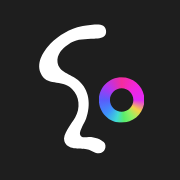
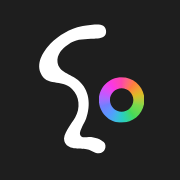
feat: roue iris v2
- CSS : variables nommées du kit (tokens/theme.css : --iris-cyan … --iris-vert, --iris-conic) à la place des arrêts
  numérotés ; tokens/iris.css (resté en roue v1 dans le kit) n'est plus importé ; --bg-dark / --bg-light lus dans
  tokens/iris.json
- fond : couleurs choisies sur les positions de la roue v2
- favicon et icônes d'app : régénérés depuis les monogrammes v2 du kit
- WebGL, chargeur, nom : déjà branchés sur iris.glsl / IRIS_STOPS, donc en v2

Changed region(s): [[0.5278, 0.4167, 0.8056, 0.6944]]

diff --git a/src/styles.css b/src/styles.css
@@ -20,7 +20,7 @@ img { max-width: 100%; display: block; }
 img, svg, canvas { -webkit-user-drag: none; user-select: none; }
 .brand, .hero, .studio__word { -webkit-user-select: none; user-select: none; }
 a { color: inherit; }
-:focus-visible { outline: 2px solid var(--iris-2); outline-offset: 4px; }   /* bleu de la roue : ≥ 3:1 sur les deux fonds */
+:focus-visible { outline: 2px solid var(--iris-bleu); outline-offset: 4px; }   /* bleu de la roue : ≥ 3:1 sur les deux fonds */
 
 .wrap { padding-left: var(--edge-l); padding-right: var(--edge-r); }
 .lbl { font: 400 var(--fs-text)/1.55 var(--font-text); color: var(--ink-86); }   /* étiquettes, sous-titres, genres : même style que le texte courant */
@@ -46,8 +46,8 @@ a { color: inherit; }
 .skip { position: fixed; left: 12px; top: 12px; z-index: 100; padding: 10px 14px; background: var(--c-white); color: var(--c-black); border-radius: var(--radius-s); transform: translateY(-200%); }
 .skip:focus-visible { transform: none; }
 
-/* sélection de texte : bleu-violet de la roue (--iris-3), texte blanc, dans les deux modes */
-::selection { background: var(--iris-3); color: white; }
+/* sélection de texte : bleu-violet de la roue (--iris-indigo), texte blanc, dans les deux modes */
+::selection { background: var(--iris-indigo); color: white; }
 .sr { position: absolute; width: 1px; height: 1px; overflow: hidden; clip-path: inset(50%); white-space: nowrap; }
 
 /* barre du haut : monogramme + logotype, fixe */
@@ -97,7 +97,7 @@ a { color: inherit; }
 .btn--light { position: relative; background: none; color: var(--ink); border: 1px solid var(--ink); border-radius: var(--radius-pill); padding: 10px 18px; font: 400 var(--fs-small) var(--font-text); transition: background var(--dur-fast), color var(--dur-fast), box-shadow var(--dur-fast); }
 /* même famille que les pastilles (langue, fermer) : contour fin à l'encre, au survol fond à l'encre et contour épaissi */
 .btn--light:hover, .btn--light:focus-visible { background: var(--ink); color: var(--bg); box-shadow: 0 0 0 1px var(--ink); }
-@keyframes chroma { from { text-shadow: -0.04em 0 0.1em color-mix(in srgb, var(--iris-6) 45%, transparent), 0.04em 0 0.1em color-mix(in srgb, var(--iris-0) 45%, transparent); } to { text-shadow: 0 0 0 transparent, 0 0 0 transparent; } }
+@keyframes chroma { from { text-shadow: -0.04em 0 0.1em color-mix(in srgb, var(--iris-magenta) 45%, transparent), 0.04em 0 0.1em color-mix(in srgb, var(--iris-vert) 45%, transparent); } to { text-shadow: 0 0 0 transparent, 0 0 0 transparent; } }
 
 /* bords de l'écran : le texte s'efface en fondu net ; la déformation « verre liquide » est faite en WebGL sur les images */
 .edge { position: fixed; left: 0; right: 0; z-index: 15; pointer-events: none; transition: opacity var(--dur-base) var(--ease-flow); }
@@ -151,7 +151,7 @@ main { position: relative; }   /* pas de contexte d'empilement : le mot de l'acc
 .js [data-words] .w.on { opacity: 1; }
 /* mot en cours d'apparition : encre derrière le front, front irisé (roue du kit), encore éteint devant */
 .js [data-words] .w.lead { opacity: 1; color: transparent; -webkit-background-clip: text; background-clip: text;
-  background-image: linear-gradient(90deg, var(--ink) calc(var(--f, 0) * 116% - 16%), var(--iris-5) calc(var(--f, 0) * 116% - 10%), var(--iris-2) calc(var(--f, 0) * 116% - 5%), var(--iris-0) calc(var(--f, 0) * 116% - 1%), color-mix(in srgb, var(--ink) 16%, transparent) calc(var(--f, 0) * 116% + 2%)); }
+  background-image: linear-gradient(90deg, var(--ink) calc(var(--f, 0) * 116% - 16%), var(--iris-rose) calc(var(--f, 0) * 116% - 10%), var(--iris-bleu) calc(var(--f, 0) * 116% - 5%), var(--iris-vert) calc(var(--f, 0) * 116% - 1%), color-mix(in srgb, var(--ink) 16%, transparent) calc(var(--f, 0) * 116% + 2%)); }
 @media (prefers-reduced-motion: reduce) {
   .js [data-reveal], .js [data-reveal="line"] > span { transform: none !important; transition: opacity var(--dur-base); animation: none !important; }
   .js [data-reveal="clip"] { clip-path: none; }
@@ -283,8 +283,8 @@ main { position: relative; }   /* pas de contexte d'empilement : le mot de l'acc
 .work--research { padding-top: var(--sp-6); }
 .lens-on:not(.fiche-open), .lens-on:not(.fiche-open) * { cursor: none !important; }   /* seulement sur les vignettes, jamais dans une fiche */
 .card__media--text, .has-gl .card__media--text { display: grid; place-items: center;
-  background: radial-gradient(120% 90% at 15% 10%, color-mix(in srgb, var(--iris-5) 34%, transparent), transparent 60%), radial-gradient(90% 80% at 85% 20%, color-mix(in srgb, var(--iris-2) 34%, transparent), transparent 60%),
-    radial-gradient(110% 90% at 70% 100%, color-mix(in srgb, var(--iris-0) 30%, transparent), transparent 60%), radial-gradient(90% 80% at 10% 95%, color-mix(in srgb, var(--iris-4) 30%, transparent), transparent 60%), var(--card-bg); }
+  background: radial-gradient(120% 90% at 15% 10%, color-mix(in srgb, var(--iris-rose) 34%, transparent), transparent 60%), radial-gradient(90% 80% at 85% 20%, color-mix(in srgb, var(--iris-bleu) 34%, transparent), transparent 60%),
+    radial-gradient(110% 90% at 70% 100%, color-mix(in srgb, var(--iris-vert) 30%, transparent), transparent 60%), radial-gradient(90% 80% at 10% 95%, color-mix(in srgb, var(--iris-violet) 30%, transparent), transparent 60%), var(--card-bg); }
 .card__media--text .disp { font-size: clamp(2rem, 4vw, 3.6rem); color: white; }   /* sur tuile sombre dans les deux modes */
 
 /* 5. contact, pied de page */

diff --git a/vite.config.js b/vite.config.js
@@ -50,8 +50,8 @@ function prerender() {
   }
 }
 
-/** Arrêts de la roue du logo-kit (design/logo-kit/src/iris.js) en variables CSS : --iris-0 … --iris-10 (dans l'ordre du
- *  dégradé, 0 = vert en bas, 5 = rose en haut), --iris-linear (le même dégradé à plat). Aucune couleur recopiée à la main. */
+/** Valeurs du logo-kit en variables CSS (aucune couleur recopiée à la main) : --bg-dark / --bg-light (tokens/iris.json)
+ *  et --iris-linear, la roue v2 à plat (src/iris.js), pour les filets irisés. */
 function irisCss() {
   const id = 'virtual:iris.css', rid = '\0virtual:iris.css'
   return {
@@ -60,8 +60,8 @@ function irisCss() {
     async load(s) {
       if (s !== rid) return null
       const { IRIS_STOPS } = await import(pathToFileURL(resolve('design/logo-kit/src/iris.js')).href)
-      const stops = IRIS_STOPS.slice(0, -1)
-      return `:root{${stops.map(([, c], i) => `--iris-${i}:${c};`).join('')}--iris-linear:linear-gradient(90deg,${IRIS_STOPS.map(([p, c]) => `${c} ${(p * 100).toFixed(1)}%`).join(',')});}`
+      const { colors } = JSON.parse(readFileSync(resolve('design/logo-kit/tokens/iris.json'), 'utf8'))
+      return `:root{--bg-dark:${colors.bgDark};--bg-light:${colors.bgLight};--iris-linear:linear-gradient(90deg,${IRIS_STOPS.map(([p, c]) => `${c} ${(p * 100).toFixed(1)}%`).join(',')});}`
     },
   }
 }

diff --git a/src/backdrop.js b/src/backdrop.js
@@ -9,9 +9,9 @@
 import KIT_IRIS from '../design/logo-kit/src/iris.glsl?raw'
 
 const N = 12   // nombre de formes réparties dans la page
-// couleurs des formes (positions sur la roue du kit), alternées pour que deux voisines ne se ressemblent pas ; les roses
-// et violets (0,37 à 0,75 sur la roue) sont limités à deux formes sur douze
-const HUES = [0.04, 0.84, 0.13, 0.95, 0.5, 0.0, 0.25, 0.88, 0.08, 0.62, 0.17, 0.91]   // + 0,5 : irisAt compte depuis le haut
+// couleurs des formes : positions sur la roue v2 du kit (0 cyan, 0,1 bleu, 0,2 indigo, 0,3 violet, 0,4 magenta, 0,5 rose,
+// 0,6 corail, 0,7 jaune, 0,8 vert-jaune, 0,9 vert), alternées ; roses, magentas et violets limités à deux formes sur douze
+const HUES = [0.0, 0.7, 0.1, 0.9, 0.6, 0.05, 0.2, 0.75, 0.85, 0.5, 0.15, 0.95]   // + 0,5 : irisAt compte depuis le haut
 
 const VERT = `attribute vec2 a; void main() { gl_Position = vec4(a, 0.0, 1.0); }`
 const FRAG = `precision highp float;

diff --git a/src/theme.css b/src/theme.css
@@ -1,7 +1,9 @@
 /* Thème du site, dérivé du logo-kit Figma (design/logo-kit, source de vérité) : aucune teinte propre au site.
    --bg / --ink : fonds et encres du kit ; neutres secondaires : mélanges de --ink et --bg uniquement.
-   Les arrêts de la roue (--iris-*) sont générés depuis design/logo-kit/src/iris.js (vite.config.js, virtual:iris.css). */
-@import '../design/logo-kit/tokens/iris.css';
+   Roue v2 : --iris-cyan … --iris-vert, --iris-conic et --title-fringe viennent de design/logo-kit/tokens/theme.css ;
+   --bg-dark, --bg-light et --iris-linear sont générés depuis le kit (vite.config.js, virtual:iris.css). Le
+   tokens/iris.css du kit v2 contient encore la roue v1 : il n'est pas importé. */
+@import '../design/logo-kit/tokens/theme.css';
 
 /* thème de l'appareil (prefers-color-scheme) ; s'il n'en indique aucun : clair. Le bouton de la barre du haut peut forcer
    l'autre mode (data-theme sur <html>, mémorisé). */

diff --git a/en/index.html b/en/index.html
@@ -4,8 +4,8 @@
   <meta charset="utf-8" />
   <meta name="viewport" content="width=device-width, initial-scale=1, viewport-fit=cover" />
   <!--HEAD:en-->
-  <link rel="icon" href="../favicon.svg?v=6" type="image/svg+xml" />
-  <link rel="icon" href="../favicon.ico?v=6" sizes="any" />
+  <link rel="icon" href="../favicon.svg?v=7" type="image/svg+xml" />
+  <link rel="icon" href="../favicon.ico?v=7" sizes="any" />
   <link rel="apple-touch-icon" href="../apple-touch-icon.png" />
   <link rel="manifest" href="../manifest.webmanifest" />
   <link rel="preload" href="../fonts/archivo-variable.woff2" as="font" type="font/woff2" crossorigin />

diff --git a/index.html b/index.html
@@ -4,8 +4,8 @@
   <meta charset="utf-8" />
   <meta name="viewport" content="width=device-width, initial-scale=1, viewport-fit=cover" />
   <!--HEAD:fr-->
-  <link rel="icon" href="favicon.svg?v=6" type="image/svg+xml" />
-  <link rel="icon" href="favicon.ico?v=6" sizes="any" />
+  <link rel="icon" href="favicon.svg?v=7" type="image/svg+xml" />
+  <link rel="icon" href="favicon.ico?v=7" sizes="any" />
   <link rel="apple-touch-icon" href="apple-touch-icon.png" />
   <link rel="manifest" href="manifest.webmanifest" />
   <link rel="preload" href="fonts/archivo-variable.woff2" as="font" type="font/woff2" crossorigin />
